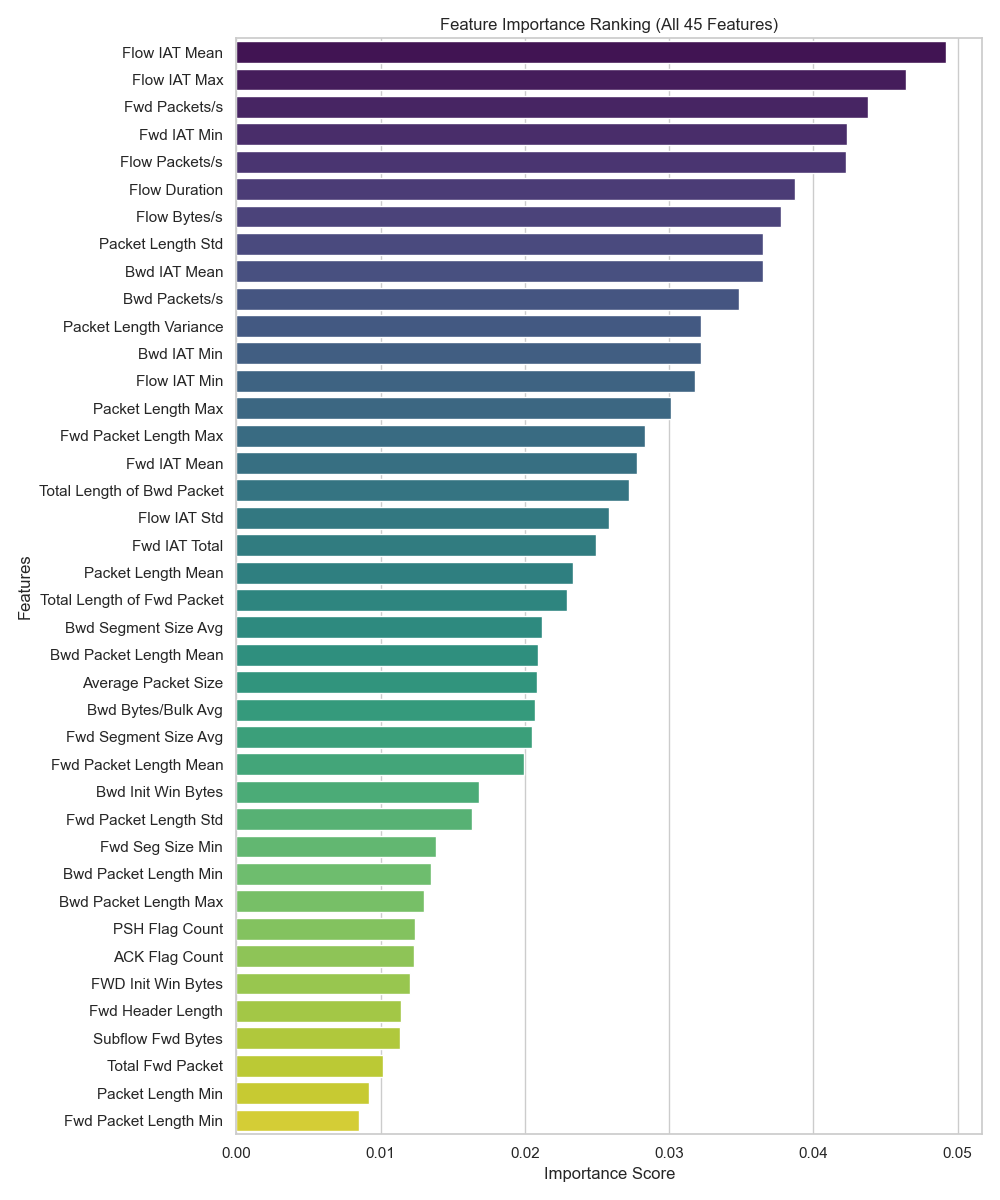
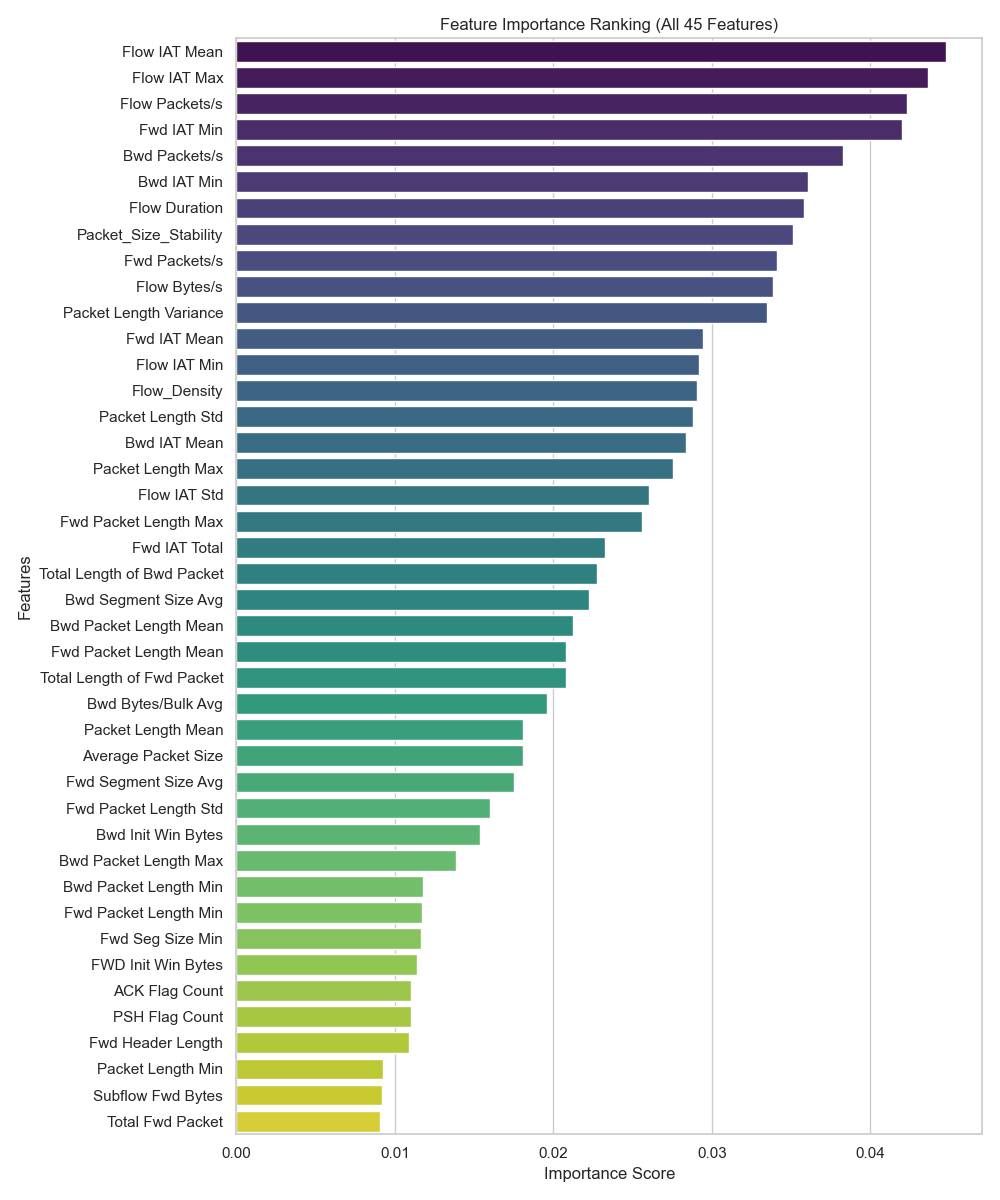
randomforest update

Changed region(s): [[0.031, 0.0308, 0.93, 0.9867], [0.651, 0.9558, 0.682, 0.9867], [0.527, 0.9558, 0.558, 0.9867]]

diff --git a/cross_validation.py b/cross_validation.py
@@ -1,116 +1,29 @@
 import pandas as pd
 import numpy as np
+import os
 from sklearn.ensemble import RandomForestClassifier
 from sklearn.model_selection import train_test_split, cross_validate, KFold, GridSearchCV
+from sklearn.feature_selection import RFECV
 from sklearn.metrics import classification_report
 import matplotlib.pyplot as plt
 import seaborn as sns
-
-# 1. 快速加载数据
-print("正在加载数据...")
-df = pd.read_parquet("processed_data.parquet")
-
-# 2. 样本均衡处理 (下采样)
-mal_df = df[df['Label'] == 1]
-ben_df = df[df['Label'] == 0]
-sample_size = min(len(mal_df), len(ben_df))
-
-print(f"均衡前：恶意 {len(mal_df)}，正常 {len(ben_df)}")
-df_balanced = pd.concat([
-    mal_df.sample(n=sample_size, random_state=42),
-    ben_df.sample(n=sample_size, random_state=42)
-]).sample(frac=1, random_state=42)  # 合并后再次打乱
-print(f"均衡后总样本数: {len(df_balanced)}")
-
-# 3. 特征工程
-X = df_balanced.drop(columns=['Label'])
-keep_features = [
-    'Flow Duration', 'Total Fwd Packet', 'Total Length of Fwd Packet',
-    'Total Length of Bwd Packet', 'Fwd Packet Length Max',
-    'Fwd Packet Length Min', 'Fwd Packet Length Mean', 'Fwd Packet Length Std',
-    'Bwd Packet Length Max', 'Bwd Packet Length Min', 'Bwd Packet Length Mean',
-    'Flow Bytes/s', 'Flow Packets/s', 'Flow IAT Mean', 'Flow IAT Std',
-    'Flow IAT Max', 'Flow IAT Min', 'Fwd IAT Total', 'Fwd IAT Mean',
-    'Fwd IAT Min', 'Bwd IAT Mean', 'Bwd IAT Min', 'Fwd Header Length',
-    'Fwd Packets/s', 'Bwd Packets/s', 'Packet Length Min', 'Packet Length Max',
-    'Packet Length Mean', 'Packet Length Std', 'Packet Length Variance',
-    'PSH Flag Count', 'ACK Flag Count', 'Average Packet Size',
-    'Fwd Segment Size Avg', 'Bwd Segment Size Avg', 'Bwd Bytes/Bulk Avg',
-    'Subflow Fwd Bytes', 'FWD Init Win Bytes', 'Bwd Init Win Bytes',
-    'Fwd Seg Size Min'
-]
-
-# 【修正】使用 .copy() 避免 SettingWithCopyWarning
-X_filtered = X[keep_features].copy()
-
-# 【第一步：特征增强】
-X_filtered['Flow_Density'] = X_filtered['Total Length of Fwd Packet'] / (
-    X_filtered['Flow Duration'] + 1e-5)
-X_filtered['Packet_Size_Stability'] = X_filtered['Packet Length Std'] / (
-    X_filtered['Packet Length Mean'] + 1e-5)
-
-print(f"特征工程完成，当前特征总数: {X_filtered.shape[1]}")
-
-y = df_balanced['Label']
-X_train, X_test, y_train, y_test = train_test_split(X_filtered,
-                                                    y,
-                                                    test_size=0.2,
-                                                    random_state=42)
-
-# 4. 【第二步：自动化调优】
-print(f"启动 GridSearch 调优 (训练集规模: {X_train.shape})...")
-rf_base = RandomForestClassifier(random_state=42, n_jobs=-1)
-
-param_grid = {
-    'n_estimators': [100, 200],  # 缩减了一下范围以加快速度，可自行加回 300
-    'max_depth': [15, 25, None],
-    'min_samples_split': [2, 5],
-    'max_features': ['sqrt']
-}
-
-grid_search = GridSearchCV(estimator=rf_base,
-                           param_grid=param_grid,
-                           cv=3,
-                           scoring='f1',
-                           verbose=2)
-grid_search.fit(X_train, y_train)
-
-print("\n" + "=" * 30)
-print(f"最佳参数: {grid_search.best_params_}")
-print(f"最佳 F1 分数: {grid_search.best_score_:.4f}")
-print("=" * 30)
-
-# 获取最优模型
-best_rf = grid_search.best_estimator_
-
-# 5. 评估结果
-y_pred = best_rf.predict(X_test)
-print("\n--- 最终模型测试集评估报告 ---")
-print(classification_report(y_test, y_pred))
-
-# 6. 5折交叉验证 (使用最优模型评估全局稳定性)
-print("\n正在启动 5-Fold 交叉验证...")
-kf = KFold(n_splits=5, shuffle=True, random_state=42)
-scoring_metrics = ['accuracy', 'precision', 'recall', 'f1']
-cv_results = cross_validate(best_rf,
-                            X_filtered,
-                            y,
-                            cv=kf,
-                            scoring=scoring_metrics)
-
-print(f"平均准确率: {cv_results['test_accuracy'].mean():.4f}")
-print(f"平均召回率: {cv_results['test_recall'].mean():.4f}")
+import multiprocessing
 
 
-# 7. 可视化与特征重要性分析
+# ==========================================
+# 绘图函数定义 (放在入口外面)
+# ==========================================
 def plot_results(results, model, features):
+    """
+    可视化交叉验证结果与特征重要性
+    """
     importances = pd.Series(
         model.feature_importances_,
         index=features.columns).sort_values(ascending=False)
 
     fig, (ax1, ax2) = plt.subplots(1, 2, figsize=(18, 7))
 
-    # A. 交叉验证结果
+    # A. 交叉验证结果 (箱线图)
     cv_df = pd.DataFrame({
         'Accuracy': results['test_accuracy'],
         'Precision': results['test_precision'],
@@ -118,21 +31,22 @@ def plot_results(results, model, features):
         'F1-Score': results['test_f1']
     })
     sns.boxplot(data=cv_df, palette="Set3", ax=ax1)
-    ax1.set_title('A. Cross-Validation Reliability')
+    ax1.set_title('A. Cross-Validation Reliability (Optimal Features)',
+                  fontsize=14)
 
-    # B. Top 10 特征
+    # B. Top 10 核心特征 (条形图)
     sns.barplot(x=importances.head(10).values,
                 y=importances.head(10).index,
                 palette="viridis",
                 ax=ax2)
-    ax2.set_title('B. Top 10 Important Features')
+    ax2.set_title('B. Top 10 Important Features (After RFE)', fontsize=14)
 
     plt.tight_layout()
-    plt.savefig('evaluation_report.png', dpi=300)
+    plt.savefig('evaluation_report_optimal.png', dpi=300)
     plt.show()
 
-    # 打印全量特征重要性排名
-    print("\n--- 全量特征重要性排名 ---")
+    # 打印全量排名
+    print("\n--- 调优后全量特征重要性排名 ---")
     fi_df = pd.DataFrame({
         'Feature': importances.index,
         'Importance': importances.values
@@ -140,4 +54,141 @@ def plot_results(results, model, features):
     print(fi_df)
 
 
-plot_results(cv_results, best_rf, X_filtered)
+# ==========================================
+# 主程序入口 (Windows 多进程必须包裹在此处)
+# ==========================================
+if __name__ == "__main__":
+
+    # 可选：如果依然报错，取消下面这一行的注释，指定一个纯英文的临时路径
+    # os.environ['JOBLIB_TEMP_FOLDER'] = 'C:/tmp'
+
+    # 1. 加载数据
+    print("正在加载数据...")
+    df = pd.read_parquet("processed_data.parquet")
+
+    # 2. 样本均衡处理 (下采样)
+    mal_df = df[df['Label'] == 1]
+    ben_df = df[df['Label'] == 0]
+    sample_size = min(len(mal_df), len(ben_df))
+
+    print(f"均衡前：恶意 {len(mal_df)}，正常 {len(ben_df)}")
+    df_balanced = pd.concat([
+        mal_df.sample(n=sample_size, random_state=42),
+        ben_df.sample(n=sample_size, random_state=42)
+    ]).sample(frac=1, random_state=42)
+    print(f"均衡后总样本数: {len(df_balanced)}")
+
+    # 3. 特征初步筛选与工程
+    X = df_balanced.drop(columns=['Label'])
+    keep_features = [
+        'Flow Duration', 'Total Fwd Packet', 'Total Length of Fwd Packet',
+        'Total Length of Bwd Packet', 'Fwd Packet Length Max',
+        'Fwd Packet Length Min', 'Fwd Packet Length Mean',
+        'Fwd Packet Length Std', 'Bwd Packet Length Max',
+        'Bwd Packet Length Min', 'Bwd Packet Length Mean', 'Flow Bytes/s',
+        'Flow Packets/s', 'Flow IAT Mean', 'Flow IAT Std', 'Flow IAT Max',
+        'Flow IAT Min', 'Fwd IAT Total', 'Fwd IAT Mean', 'Fwd IAT Min',
+        'Bwd IAT Mean', 'Bwd IAT Min', 'Fwd Header Length', 'Fwd Packets/s',
+        'Bwd Packets/s', 'Packet Length Min', 'Packet Length Max',
+        'Packet Length Mean', 'Packet Length Std', 'Packet Length Variance',
+        'PSH Flag Count', 'ACK Flag Count', 'Average Packet Size',
+        'Fwd Segment Size Avg', 'Bwd Segment Size Avg', 'Bwd Bytes/Bulk Avg',
+        'Subflow Fwd Bytes', 'FWD Init Win Bytes', 'Bwd Init Win Bytes',
+        'Fwd Seg Size Min'
+    ]
+
+    # 使用 .copy() 避免赋值警告
+    X_filtered = X[keep_features].copy()
+
+    # 特征增强：流量密度与稳定性指标
+    X_filtered['Flow_Density'] = X_filtered['Total Length of Fwd Packet'] / (
+        X_filtered['Flow Duration'] + 1e-5)
+    X_filtered['Packet_Size_Stability'] = X_filtered['Packet Length Std'] / (
+        X_filtered['Packet Length Mean'] + 1e-5)
+
+    print(f"特征工程完成，当前初始特征总数: {X_filtered.shape[1]}")
+
+    y = df_balanced['Label']
+    X_train, X_test, y_train, y_test = train_test_split(X_filtered,
+                                                        y,
+                                                        test_size=0.2,
+                                                        random_state=42)
+
+    # 4. RFECV 自动化特征消除 (寻找最优特征数量)
+    print("\n--- 步骤 1: 正在通过 RFECV 寻找最佳特征数量 ---")
+    n_cpus = multiprocessing.cpu_count()
+    rf_rfecv = RandomForestClassifier(n_estimators=100,
+                                      max_depth=25,
+                                      n_jobs=n_cpus - 1,
+                                      random_state=42)
+
+    # 5折交叉验证，以 F1 分数为优化目标
+    rfecv = RFECV(estimator=rf_rfecv,
+                  step=1,
+                  cv=5,
+                  scoring='f1',
+                  n_jobs=n_cpus - 1)
+    rfecv.fit(X_train, y_train)
+
+    print(f"最佳特征数量: {rfecv.n_features_}")
+    optimal_features = X_train.columns[rfecv.support_].tolist()
+    print(f"选出的最优特征清单: {optimal_features}")
+
+    # 绘制 RFECV 学习曲线
+    plt.figure(figsize=(10, 5))
+    plt.plot(range(1,
+                   len(rfecv.cv_results_['mean_test_score']) + 1),
+             rfecv.cv_results_['mean_test_score'])
+    plt.xlabel("Number of Features Selected")
+    plt.ylabel("CV F1-Score")
+    plt.title("RFECV: Optimization of Feature Count")
+    plt.grid(True)
+    plt.savefig('rfecv_curve.png')
+    plt.show()
+
+    # 应用最优特征集
+    X_train_optimal = X_train[optimal_features]
+    X_test_optimal = X_test[optimal_features]
+
+    # 5. GridSearchCV 自动化调优 (在最优特征集上寻找最佳参数)
+    print("\n--- 步骤 2: 正在最优特征集上进行参数调优 ---")
+    rf_base = RandomForestClassifier(random_state=42, n_jobs=n_cpus - 1)
+    param_grid = {
+        'n_estimators': [50, 100, 200],
+        'max_depth': [None, 10, 15, 25],
+        'min_samples_split': [2, 5]
+    }
+
+    grid_search = GridSearchCV(estimator=rf_base,
+                               param_grid=param_grid,
+                               cv=3,
+                               scoring='f1',
+                               verbose=2,
+                               n_jobs=n_cpus - 1)
+    grid_search.fit(X_train_optimal, y_train)
+
+    print(f"\n最佳参数组合: {grid_search.best_params_}")
+    best_rf = grid_search.best_estimator_
+
+    # 6. 最终评估 (测试集)
+    y_pred = best_rf.predict(X_test_optimal)
+    print("\n--- 调优与特征筛选后最终评估报告 ---")
+    print(classification_report(y_test, y_pred))
+
+    # 7. 全局稳定性校验 (5折交叉验证)
+    print("\n正在启动最终 5-Fold 交叉验证...")
+    kf = KFold(n_splits=5, shuffle=True, random_state=42)
+    cv_results = cross_validate(
+        best_rf,
+        X_filtered[optimal_features],
+        y,
+        cv=kf,
+        scoring=['accuracy', 'precision', 'recall', 'f1'])
+
+    print(f"平均准确率: {cv_results['test_accuracy'].mean():.4f}")
+    print(f"平均精确率: {cv_results['test_precision'].mean():.4f}")
+    print(f"平均召回率: {cv_results['test_recall'].mean():.4f}")
+    print(f"平均 F1 分数: {cv_results['test_f1'].mean():.4f}")
+
+    # 8. 调用绘图展示
+    plot_results(cv_results, best_rf, X_filtered[optimal_features])
